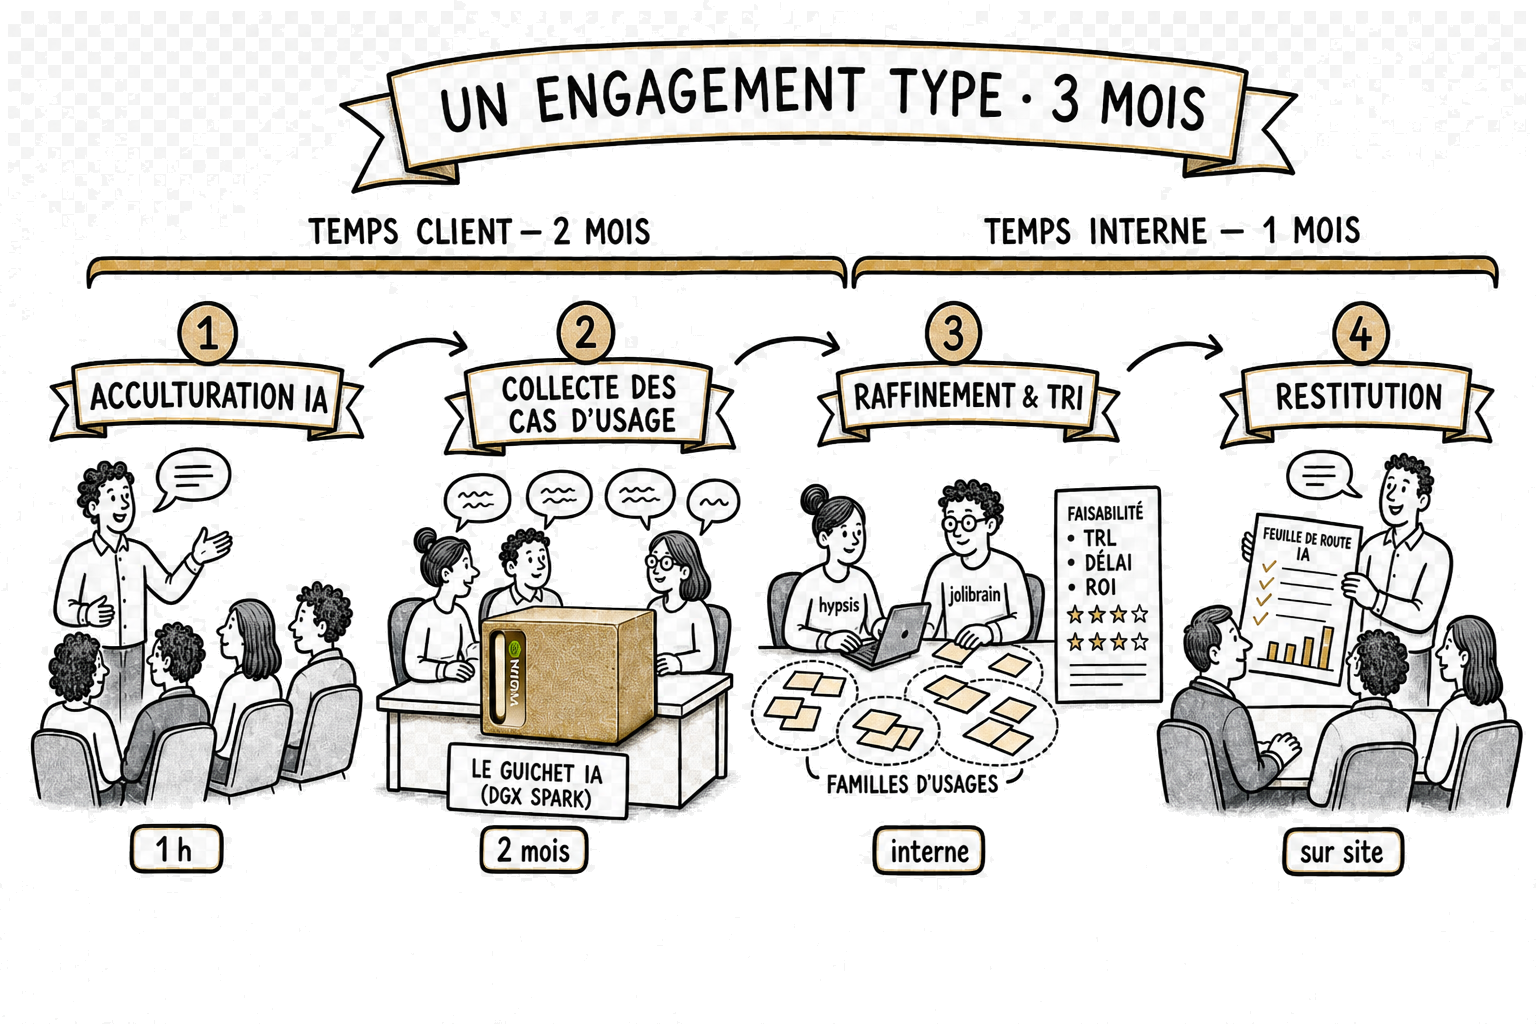
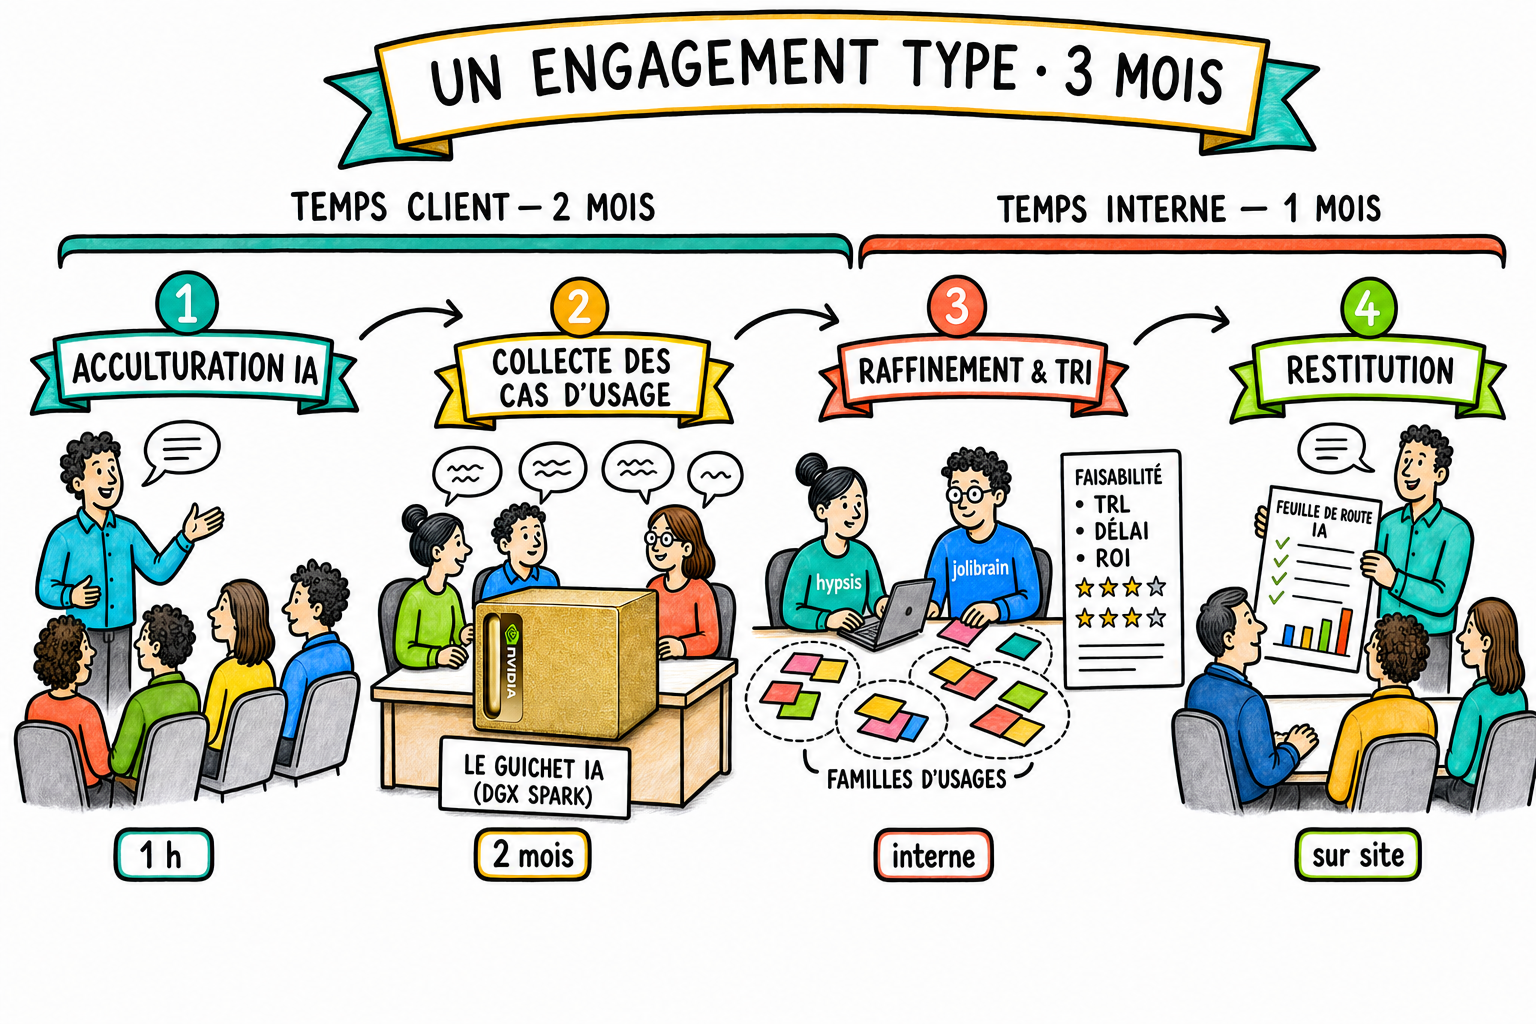
Deploy 2026-06-22 17:30 UTC

diff --git a/elicit-fr/index.html b/elicit-fr/index.html
@@ -119,6 +119,7 @@
   .sketch {
     display: block; width: 100%; max-width: 920px; height: auto;
     margin: 0.6rem auto 0;
+    mix-blend-mode: multiply;
   }
 
   /* ---- DELIVERABLE ---- */
@@ -273,7 +274,7 @@
       <div class="inner wide">
         <div class="eyebrow">Comment ça marche</div>
         <h2 class="section-title">Un engagement type, du terrain à la roadmap.</h2>
-        <img class="sketch" src="../assets/engagement-sketchnote.png?v=2" alt="Sketchnote d'un engagement type en 3 mois : temps client (acculturation IA puis collecte des cas d'usage via le guichet IA sur la Hypsis Box DGX Spark) et temps interne (raffinement et tri en familles d'usages notées faisabilité, TRL, délai, ROI ; restitution de la feuille de route).">
+        <img class="sketch" src="../assets/engagement-sketchnote.png?v=3" alt="Sketchnote d'un engagement type en 3 mois : temps client (acculturation IA puis collecte des cas d'usage via le guichet IA sur la Hypsis Box DGX Spark) et temps interne (raffinement et tri en familles d'usages notées faisabilité, TRL, délai, ROI ; restitution de la feuille de route).">
       </div>
     </section>
 
